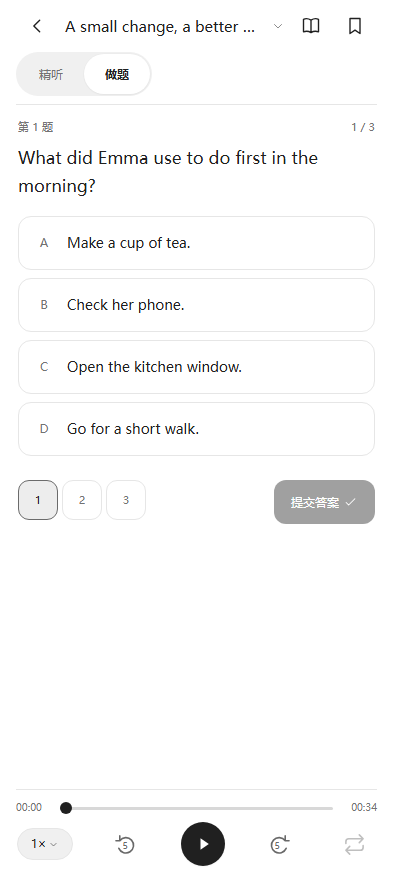
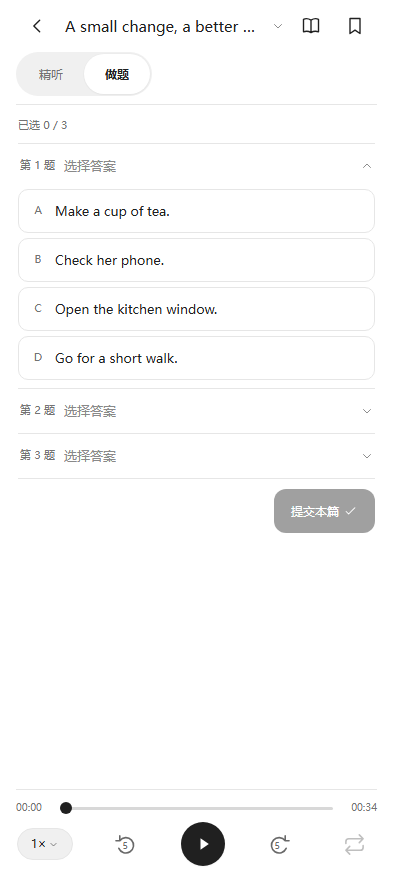
Document verified 1.0.8 dropdown quiz and release screenshots

Changed region(s): [[0.0305, 0.1237, 0.916, 0.5876], [0.7023, 0.5258, 0.9466, 0.6186], [0.0305, 0.5567, 0.0611, 0.5876]]

diff --git a/docs/compact-quiz.md b/docs/compact-quiz.md
@@ -12,6 +12,14 @@
 
 ## 验证状态
 
-本版使用 versionCode 9。浏览器交互、屏幕布局、播放回归及 Android 原生安装验证正在进行，本文将在最终产物检查完成后补入真实结果与链接。本段不代表本版已通过兼容性验收；realme GT7 / realme UI 7.0 尚未直接验证本版。
[1 lines of base64/hex data omitted]
 
-本次验证需要覆盖：题干不出现在做题 DOM、同篇全部题目同页、选项展开／收起与完整文字回显、未选齐不能提交、整篇提交只记一次完成、旧答案和导入资料保留，以及共享录音与独立切片的播放位置对齐。公开仓库及公开 APK 继续仅包含原创示例与测试夹具。
+- 41 项源码测试、17 项主题／首页／统计检查、18 组正文与安全区布局，以及 86 项包含本地真实六级 M4A 和分题切片的播放回归通过。
+- 新增 6 项整篇答题行为检查：题干不进入做题 DOM；选择、修改和重开草稿；整篇提交与完成计数；无答案题目的评分；完整重做；分题音频与时间线映射；弹窗返回保持底层状态；旧版逐题提交记录不重复计数。
+- 3／4 题文章在 360 × 800、393 × 873、430 × 932 三种尺寸、日夜两种主题、全部收起／展开一题两种状态下共 24 组布局通过。全部题目行和提交按钮能同时显示，展开选项完整换行；长篇归档材料继续在同一页纵向滚动。
+- 最终轻量 APK 在本地 Android 16／WebView 133 使用实际触摸选完一篇六级文章的 4 题并统一提交，完成数增加一篇，旧答案与重开记录保留。轻量版与公开演示版各完成 17 个原生播放场景和 8 项 Range 响应字节长度／哈希校验，进程稳定，已有答案和导入清单保持一致。
+- [GitHub 云端运行 38749668307](https://github.com/AITopia-Shao/listenly-android/actions/runs/38749668307) 的 4 项作业首次全部通过，Android 8／11／16 均完成安装、启动、实际触摸与 16 个播放场景、8 项 Range 字节校验；每个环境的 74 项 Java 流契约检查通过。云端使用单题原创夹具，跨文章置顶和多题未选齐不能提交由本地多文章／多题测试覆盖。
+
+本地原生首轮测试曾在播放速度菜单恢复时提前读取控件而失败；测试加入有界等待后通过，原始失败和无应用崩溃的 crash 日志保留。新浏览器测试的中间导航、解析选择器、动画等待与键盘焦点调整也保留诊断，未纳入通过数量。最终结果见本地 `dist/test-results-1.0.8.json`。realme GT7／realme UI 7.0 尚未直接复测本版。
+
+公开仓库及公开 APK 继续仅包含两个原创示例及五道题。个人轻量版和完整版的六级资料 JSON、录音 CRC 与长度均与 1.0.7 一致。

diff --git a/README.md b/README.md
@@ -12,7 +12,11 @@
 
 做题页移除书面题干，仅显示题号与选项。同篇所有题目集中在一个页面，点击题目行下拉展开选项，选择后收起并回显完整内容，不自动跳题。选齐后统一“提交本篇”，再展开查看正误与解析，或查看整篇成绩；既有答案、草稿和音频对齐继续保留。
 
-本版安装包与兼容性检查正在进行，结果将在验证完成后更新。交互规则及验证范围见 [整篇下拉答题](docs/compact-quiz.md)。
+本版通过 24 组新做题布局、17 项使用体验、86 项真实音频回归，以及 [Android 8 / 11 / 16 云端检查](https://github.com/AITopia-Shao/listenly-android/actions/runs/38749668307)。交互规则及验证范围见 [整篇下拉答题](docs/compact-quiz.md)，安装包见 [1.0.8 发布页](https://github.com/AITopia-Shao/listenly-android/releases/tag/v1.0.8)。
+
+| 下拉选项 | 整篇待提交 | 夜间做题 |
+| --- | --- | --- |
+| ![下拉选项](docs/screenshots/quiz.png) | ![整篇待提交](docs/screenshots/quiz-sheet.png) | ![夜间做题](docs/screenshots/quiz-dark.png) |
 
 ## 1.0.7 的套卷目录与完成统计
 
